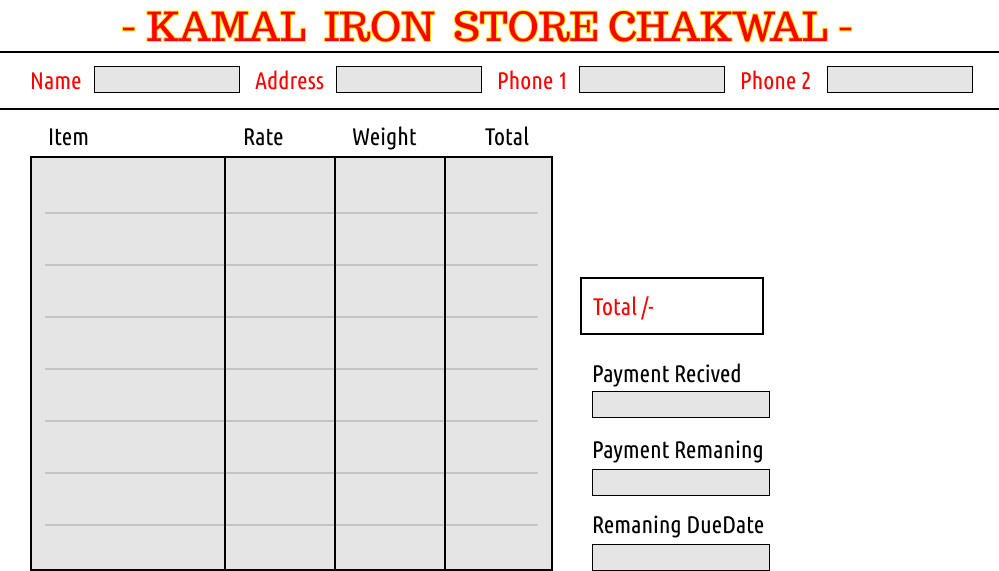
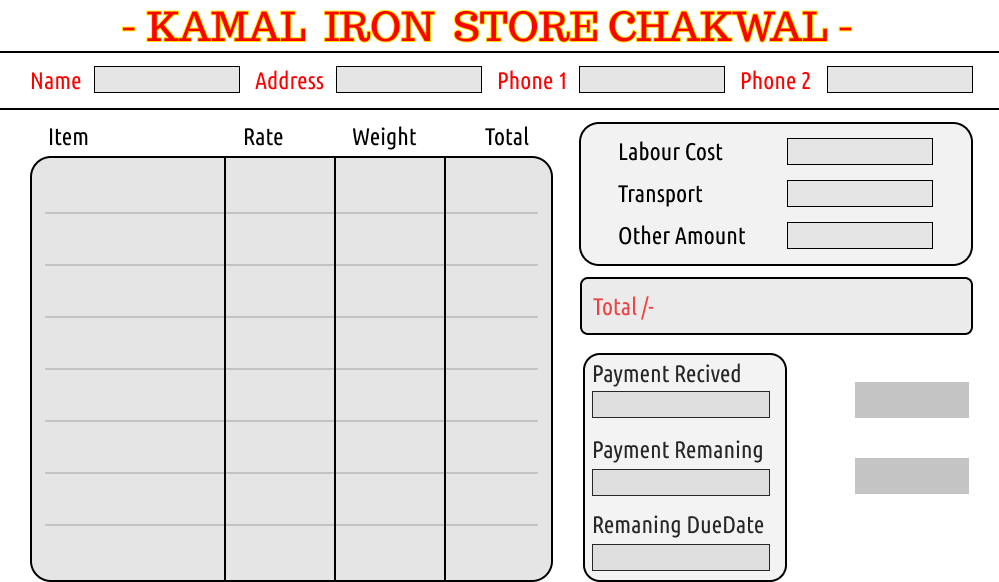
Add files via upload

diff --git a/Kamal Iron Project/window.py b/Kamal Iron Project/window.py
@@ -1,3 +1,4 @@
+from asyncio import transports
 from cgitb import text
 from functools import total_ordering
 from tkinter import *
@@ -23,7 +24,7 @@ canvas.place(x = 0, y = 0)
 # *** BACKGROUD IMAGE *************************************
 background_img = PhotoImage(file = f"background.png")
 background = canvas.create_image(
-    499, 288,
+    499, 294,
     image=background_img)
 
 
@@ -35,17 +36,29 @@ date_time = datetime.date.today()
 
 # *** CUSTOMER INFO INPUTS ********************************
 
-name = Entry(bd=0, bg="#C4C4C4", highlightthickness=0)
+name = Entry(bd=0, bg="#E5E5E5", highlightthickness=0)
 name.place(x=94, y=69, width=146, height=27)
 
-address = Entry(bd=0, bg="#C4C4C4", highlightthickness=0)
+address = Entry(bd=0, bg="#E5E5E5", highlightthickness=0)
 address.place(x=336, y=69, width=146, height=27)
 
-phone1 = Entry(bd=0, bg="#C4C4C4", highlightthickness=0)
+phone1 = Entry(bd=0, bg="#E5E5E5", highlightthickness=0)
 phone1.place(x=579, y=69, width=146, height=27)
 
-phone2 = Entry(bd=0, bg="#C4C4C4", highlightthickness=0)
+phone2 = Entry(bd=0, bg="#E5E5E5", highlightthickness=0)
 phone2.place(x=827, y=69, width=146, height=27)
+
+Labour = Entry(bd=0, bg="#E5E5E5", highlightthickness=0)
+Labour.place(x=787, y=141, width=146, height=27)
+Labour.insert(0,0)
+
+Transport = Entry(bd=0, bg="#E5E5E5", highlightthickness=0)
+Transport.place(x=787, y=183, width=146, height=27)
+Transport.insert(0,0)
+
+OtherAmount = Entry(bd=0, bg="#E5E5E5", highlightthickness=0)
+OtherAmount.place(x=787, y=225, width=146, height=27)
+OtherAmount.insert(0,0)
 
 # *********************************************************
 
@@ -108,69 +121,81 @@ item7 = StringVar()
 DropDown7 = OptionMenu(window,item7,*DropDownItems)
 DropDown7.place(x=42,y=487)
 
+item8 = Entry(bd=0, bg="#C4C4C4", highlightthickness=0,font="hight=20")
+item8.place(x=42, y=537, width=112, height=23)
+
+
 # *********************************************************
 
 # *** RATE INPUTS *****************************************
 
-rate1 = Entry(bd=0, bg="#C4C4C4", highlightthickness=0,font="hight=20")
+rate1 = Entry(bd=0, bg="#E5E5E5", highlightthickness=0,font="hight=20")
 rate1.place(x=240, y=175, width=82, height=23)
 rate1.insert(0,0)
 
-rate2 = Entry(bd=0, bg="#C4C4C4", highlightthickness=0,font="hight=20")
+rate2 = Entry(bd=0, bg="#E5E5E5", highlightthickness=0,font="hight=20")
 rate2.place(x=240, y=227, width=82, height=23)
 rate2.insert(0,0)
 
-rate3 = Entry(bd=0, bg="#C4C4C4", highlightthickness=0,font="hight=20")
+rate3 = Entry(bd=0, bg="#E5E5E5", highlightthickness=0,font="hight=20")
 rate3.place(x=240, y=279, width=82, height=23)
 rate3.insert(0,0)
 
-rate4 = Entry(bd=0, bg="#C4C4C4", highlightthickness=0,font="hight=20")
+rate4 = Entry(bd=0, bg="#E5E5E5", highlightthickness=0,font="hight=20")
 rate4.place(x=240, y=331, width=82, height=23)
 rate4.insert(0,0)
 
-rate5 = Entry(bd=0, bg="#C4C4C4", highlightthickness=0,font="hight=20")
+rate5 = Entry(bd=0, bg="#E5E5E5", highlightthickness=0,font="hight=20")
 rate5.place(x=240, y=383, width=82, height=23)
 rate5.insert(0,0)
 
-rate6 = Entry(bd=0, bg="#C4C4C4", highlightthickness=0,font="hight=20")
+rate6 = Entry(bd=0, bg="#E5E5E5", highlightthickness=0,font="hight=20")
 rate6.place(x=240, y=435, width=82, height=23)
 rate6.insert(0,0)
 
-rate7 = Entry(bd=0, bg="#C4C4C4", highlightthickness=0,font="hight=20")
+rate7 = Entry(bd=0, bg="#E5E5E5", highlightthickness=0,font="hight=20")
 rate7.place(x=240, y=487, width=82, height=23)
 rate7.insert(0,0)
+
+rate8 = Entry(bd=0, bg="#E5E5E5", highlightthickness=0,font="hight=20")
+rate8.place(x=240, y=537, width=82, height=23)
+rate8.insert(0,0)
 
 # *********************************************************
 
 # *** WEIGHT INPUTS ***************************************
 
-Weight1 = Entry(bd=0, bg="#C4C4C4", highlightthickness=0,font="hight=20")
+Weight1 = Entry(bd=0, bg="#E5E5E5", highlightthickness=0,font="hight=20")
 Weight1.place(x=354, y=175, width=82, height=23)
 Weight1.insert(0,0)
 
-Weight2 = Entry(bd=0, bg="#C4C4C4", highlightthickness=0,font="hight=20")
+Weight2 = Entry(bd=0, bg="#E5E5E5", highlightthickness=0,font="hight=20")
 Weight2.place(x=354, y=227, width=82, height=23)
 Weight2.insert(0,0)
 
-Weight3 = Entry(bd=0, bg="#C4C4C4", highlightthickness=0,font="hight=20")
+Weight3 = Entry(bd=0, bg="#E5E5E5", highlightthickness=0,font="hight=20")
 Weight3.place(x=354, y=279, width=82, height=23)
 Weight3.insert(0,0)
 
-Weight4 = Entry(bd=0, bg="#C4C4C4", highlightthickness=0,font="hight=20")
+Weight4 = Entry(bd=0, bg="#E5E5E5", highlightthickness=0,font="hight=20")
 Weight4.place(x=354, y=331, width=82, height=23)
 Weight4.insert(0,0)
 
-Weight5 = Entry(bd=0, bg="#C4C4C4", highlightthickness=0,font="hight=20")
+Weight5 = Entry(bd=0, bg="#E5E5E5", highlightthickness=0,font="hight=20")
 Weight5.place(x=354, y=383, width=82, height=23)
 Weight5.insert(0,0)
 
-Weight6 = Entry(bd=0, bg="#C4C4C4", highlightthickness=0,font="hight=20")
+Weight6 = Entry(bd=0, bg="#E5E5E5", highlightthickness=0,font="hight=20")
 Weight6.place(x=354, y=435, width=82, height=23)
 Weight6.insert(0,0)
 
-Weight7 = Entry(bd=0, bg="#C4C4C4", highlightthickness=0,font="hight=20")
+Weight7 = Entry(bd=0, bg="#E5E5E5", highlightthickness=0,font="hight=20")
 Weight7.place(x=354, y=487, width=82, height=23)
 Weight7.insert(0,0)
+
+Weight8 = Entry(bd=0, bg="#E5E5E5", highlightthickness=0,font="hight=20")
+Weight8.place(x=354, y=537, width=82, height=23)
+Weight8.insert(0,0)
 
 # *********************************************************
 
@@ -199,8 +224,11 @@ def CalcTotal():
 
     total7 = Label(text= (int(rate7.get()) * int(Weight7.get()) ),padx=10,pady=3,background="#C4C4C4",font="height=20")
     total7.place(x=460,y=487)
+
+    total8 = Label(text= (int(rate8.get()) * int(Weight8.get()) ),padx=10,pady=3,background="#C4C4C4",font="height=20")
+    total8.place(x=460,y=537)
     
-    GrandTotal = (float(rate1.get()) * float(Weight1.get()))+(float(rate2.get()) * float(Weight2.get()))+(float(rate3.get()) * float(Weight3.get()))+(float(rate4.get()) * float(Weight4.get()))+(float(rate5.get()) * float(Weight5.get()))+(float(rate6.get()) * float(Weight6.get()))+(float(rate7.get()) * float(Weight7.get()))
+    GrandTotal = (float(rate1.get()) * float(Weight1.get()))+(float(rate2.get()) * float(Weight2.get()))+(float(rate3.get()) * float(Weight3.get()))+(float(rate4.get()) * float(Weight4.get()))+(float(rate5.get()) * float(Weight5.get()))+(float(rate6.get()) * float(Weight6.get()))+(float(rate7.get()) * float(Weight7.get()))+(float(rate8.get()) * float(Weight8.get()))+float(Labour.get())+float(Transport.get())+float(OtherAmount.get())
 
     Grand = Label(text=GrandTotal,padx=10,pady=3,background="#C4C4C4",font="height=10")
     Grand.place(x=662,y=295)
@@ -211,21 +239,21 @@ def CalcTotal():
 # *** TOTAL BUTTON ****************************************
 
 TotalButton = Button(window,text="Total",command=CalcTotal,padx=20,pady=5,background="#797766",fg="#ffffff")
-TotalButton.place(x=592,y=175)
+TotalButton.place(x=885,y=385)
 
 # *********************************************************
 
 # *** PAYMENT INFO INPUTS *********************************
 
-recived = Entry(bd=0, bg="#C4C4C4", highlightthickness=0,font="hight=20")
+recived = Entry(bd=0, bg="#E5E5E5", highlightthickness=0,font="hight=20")
 recived.insert(0,0)
 recived.place(x=592, y=394, width=178, height=27)
 
-remaning = Entry(bd=0, bg="#C4C4C4", highlightthickness=0,font="hight=20")
+remaning = Entry(bd=0, bg="#E5E5E5", highlightthickness=0,font="hight=20")
 remaning.insert(0,0)
 remaning.place(x=592, y=472, width=178, height=27)
 
-dueDate = Entry(bd=0, bg="#C4C4C4", highlightthickness=0,font="hight=20")
+dueDate = Entry(bd=0, bg="#E5E5E5", highlightthickness=0,font="hight=20")
 dueDate.place(x=592, y=547, width=178, height=27)
 
 
@@ -234,11 +262,14 @@ dueDate.place(x=592, y=547, width=178, height=27)
 # *** DATA SAVEING ****************************************
 
 def SaveData():
-    total =((float(rate1.get()) * float(Weight1.get()))+(float(rate2.get()) * float(Weight2.get()))+(float(rate3.get()) * float(Weight3.get()))+(float(rate4.get()) * float(Weight4.get()))+(float(rate5.get()) * float(Weight5.get()))+(float(rate6.get()) * float(Weight6.get()))+(float(rate7.get()) * float(Weight7.get()))),
+    total =((float(rate1.get()) * float(Weight1.get()))+(float(rate2.get()) * float(Weight2.get()))+(float(rate3.get()) * float(Weight3.get()))+(float(rate4.get()) * float(Weight4.get()))+(float(rate5.get()) * float(Weight5.get()))+(float(rate6.get()) * float(Weight6.get()))+(float(rate7.get()) * float(Weight7.get()))+(float(rate8.get()) * float(Weight8.get()))+float(Labour.get())+float(Transport.get())+float(OtherAmount.get()))
     df = pd.DataFrame([[date_time, name.get(),address.get(),
                         phone1.get(),phone2.get(),
-                        ((float(rate1.get()) * float(Weight1.get()))+(float(rate2.get()) * float(Weight2.get()))+(float(rate3.get()) * float(Weight3.get()))+(float(rate4.get()) * float(Weight4.get()))+(float(rate5.get()) * float(Weight5.get()))+(float(rate6.get()) * float(Weight6.get()))+(float(rate7.get()) * float(Weight7.get()))),
+                        total,
                         recived.get(),remaning.get(),dueDate.get(),
+                        Labour.get(),
+                        Transport.get(),
+                        OtherAmount.get(),
                         (item1.get(),rate1.get(),Weight1.get()),
                         (item2.get(),rate2.get(),Weight2.get()),
                         (item3.get(),rate3.get(),Weight3.get()),
@@ -246,6 +277,7 @@ def SaveData():
                         (item5.get(),rate5.get(),Weight5.get()),
                         (item6.get(),rate6.get(),Weight6.get()),
                         (item7.get(),rate7.get(),Weight7.get()),
+                        (item8.get(),rate8.get(),Weight8.get()),
                         ]])
     df.to_csv("customers.csv",mode='a',header=None,index=None)
 
@@ -255,7 +287,7 @@ def SaveData():
 # *** SAVE BUTTON ****************************************
 
 SaveButton = Button(window,text="Save Data",command=SaveData,padx=8,pady=5,background="#797766",fg="#ffffff")
-SaveButton.place(x=592,y=227)
+SaveButton.place(x=885,y=461)
 
 # *********************************************************
 
